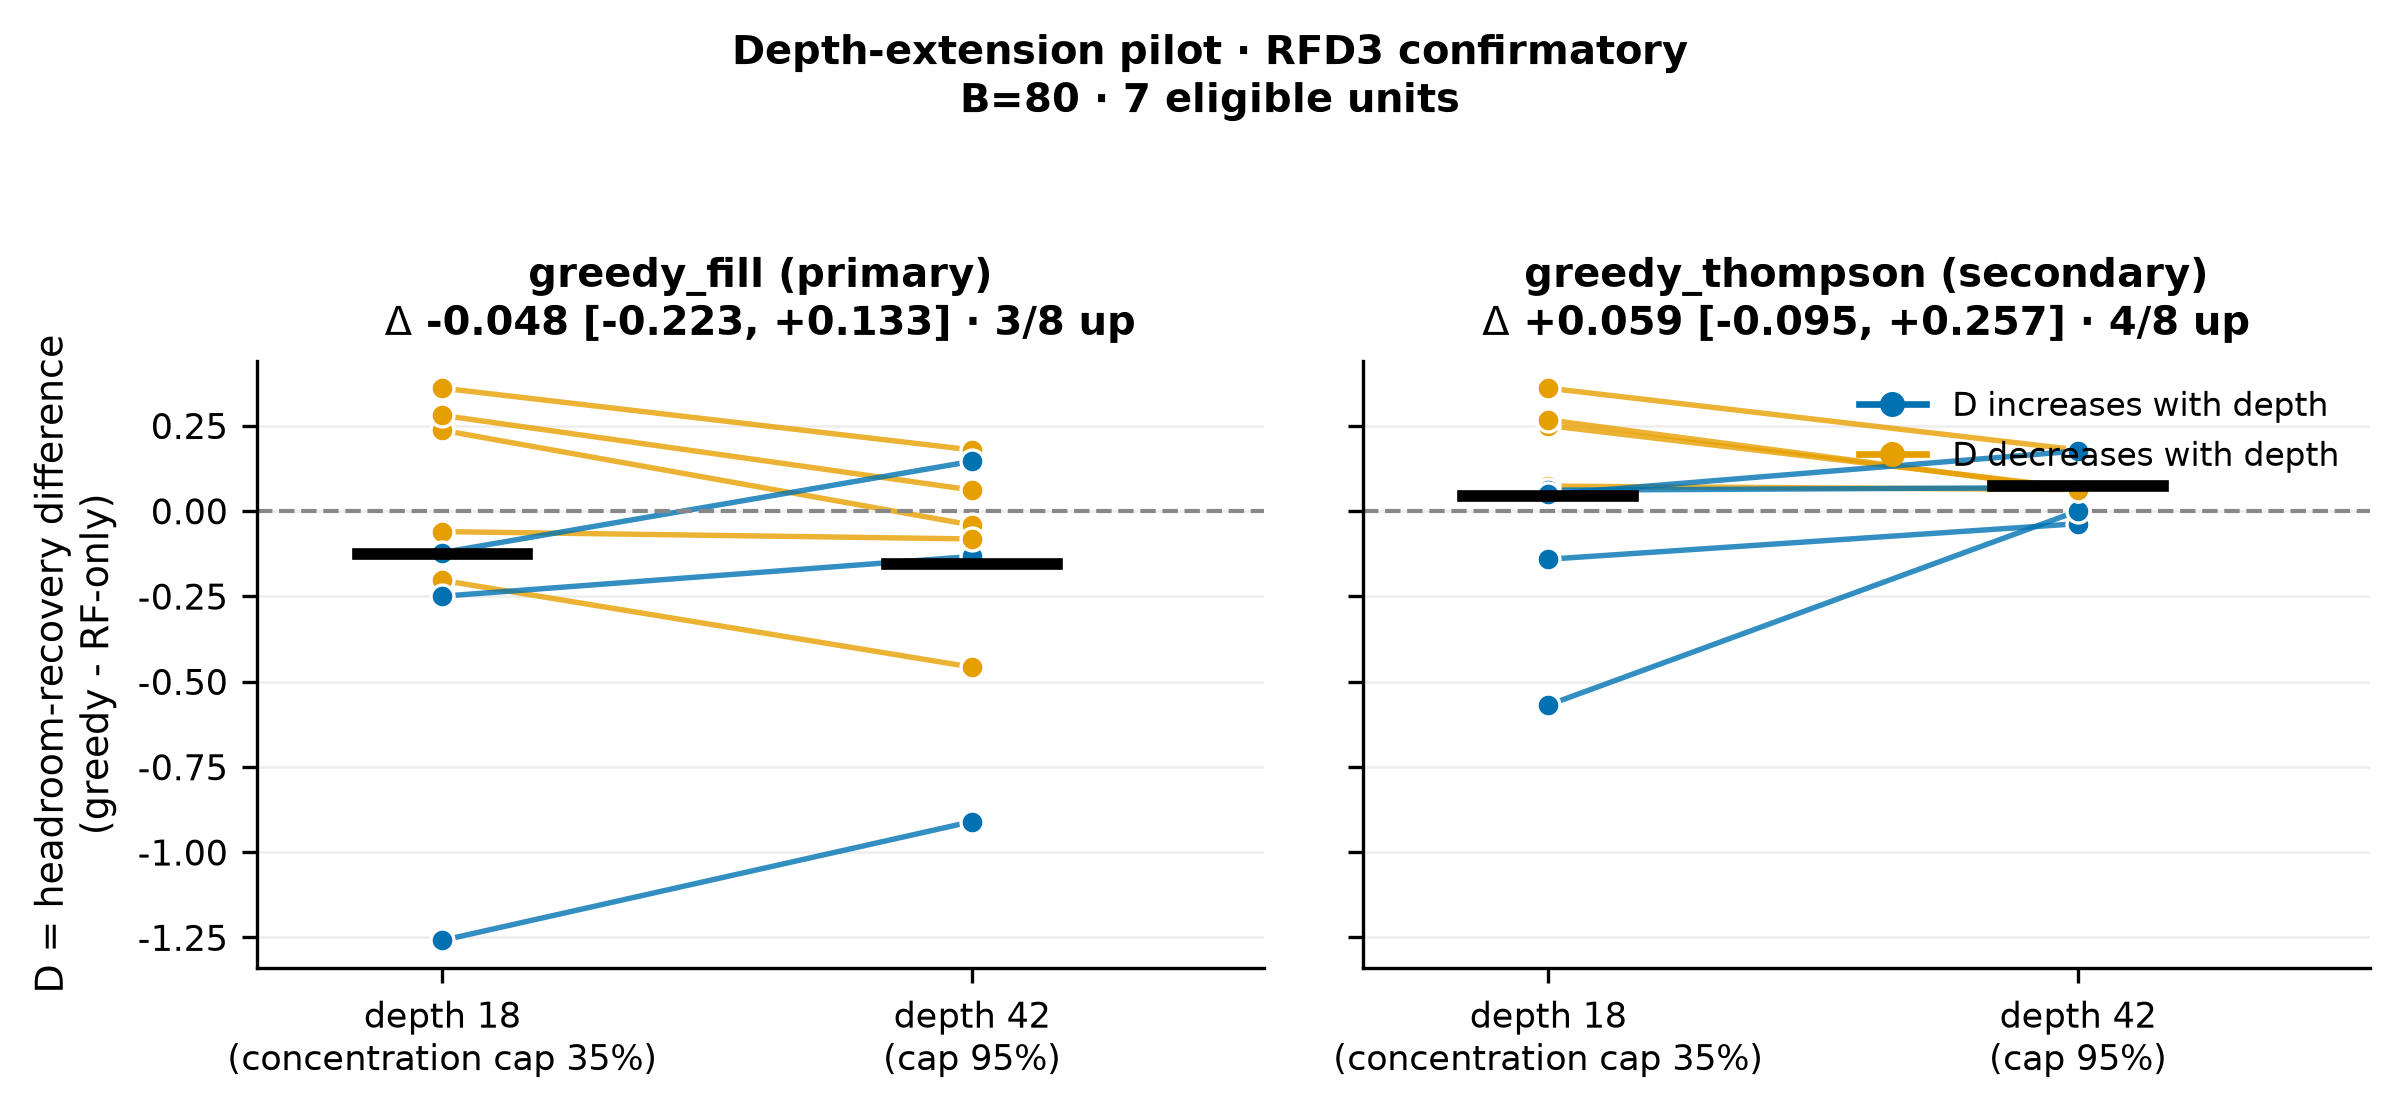
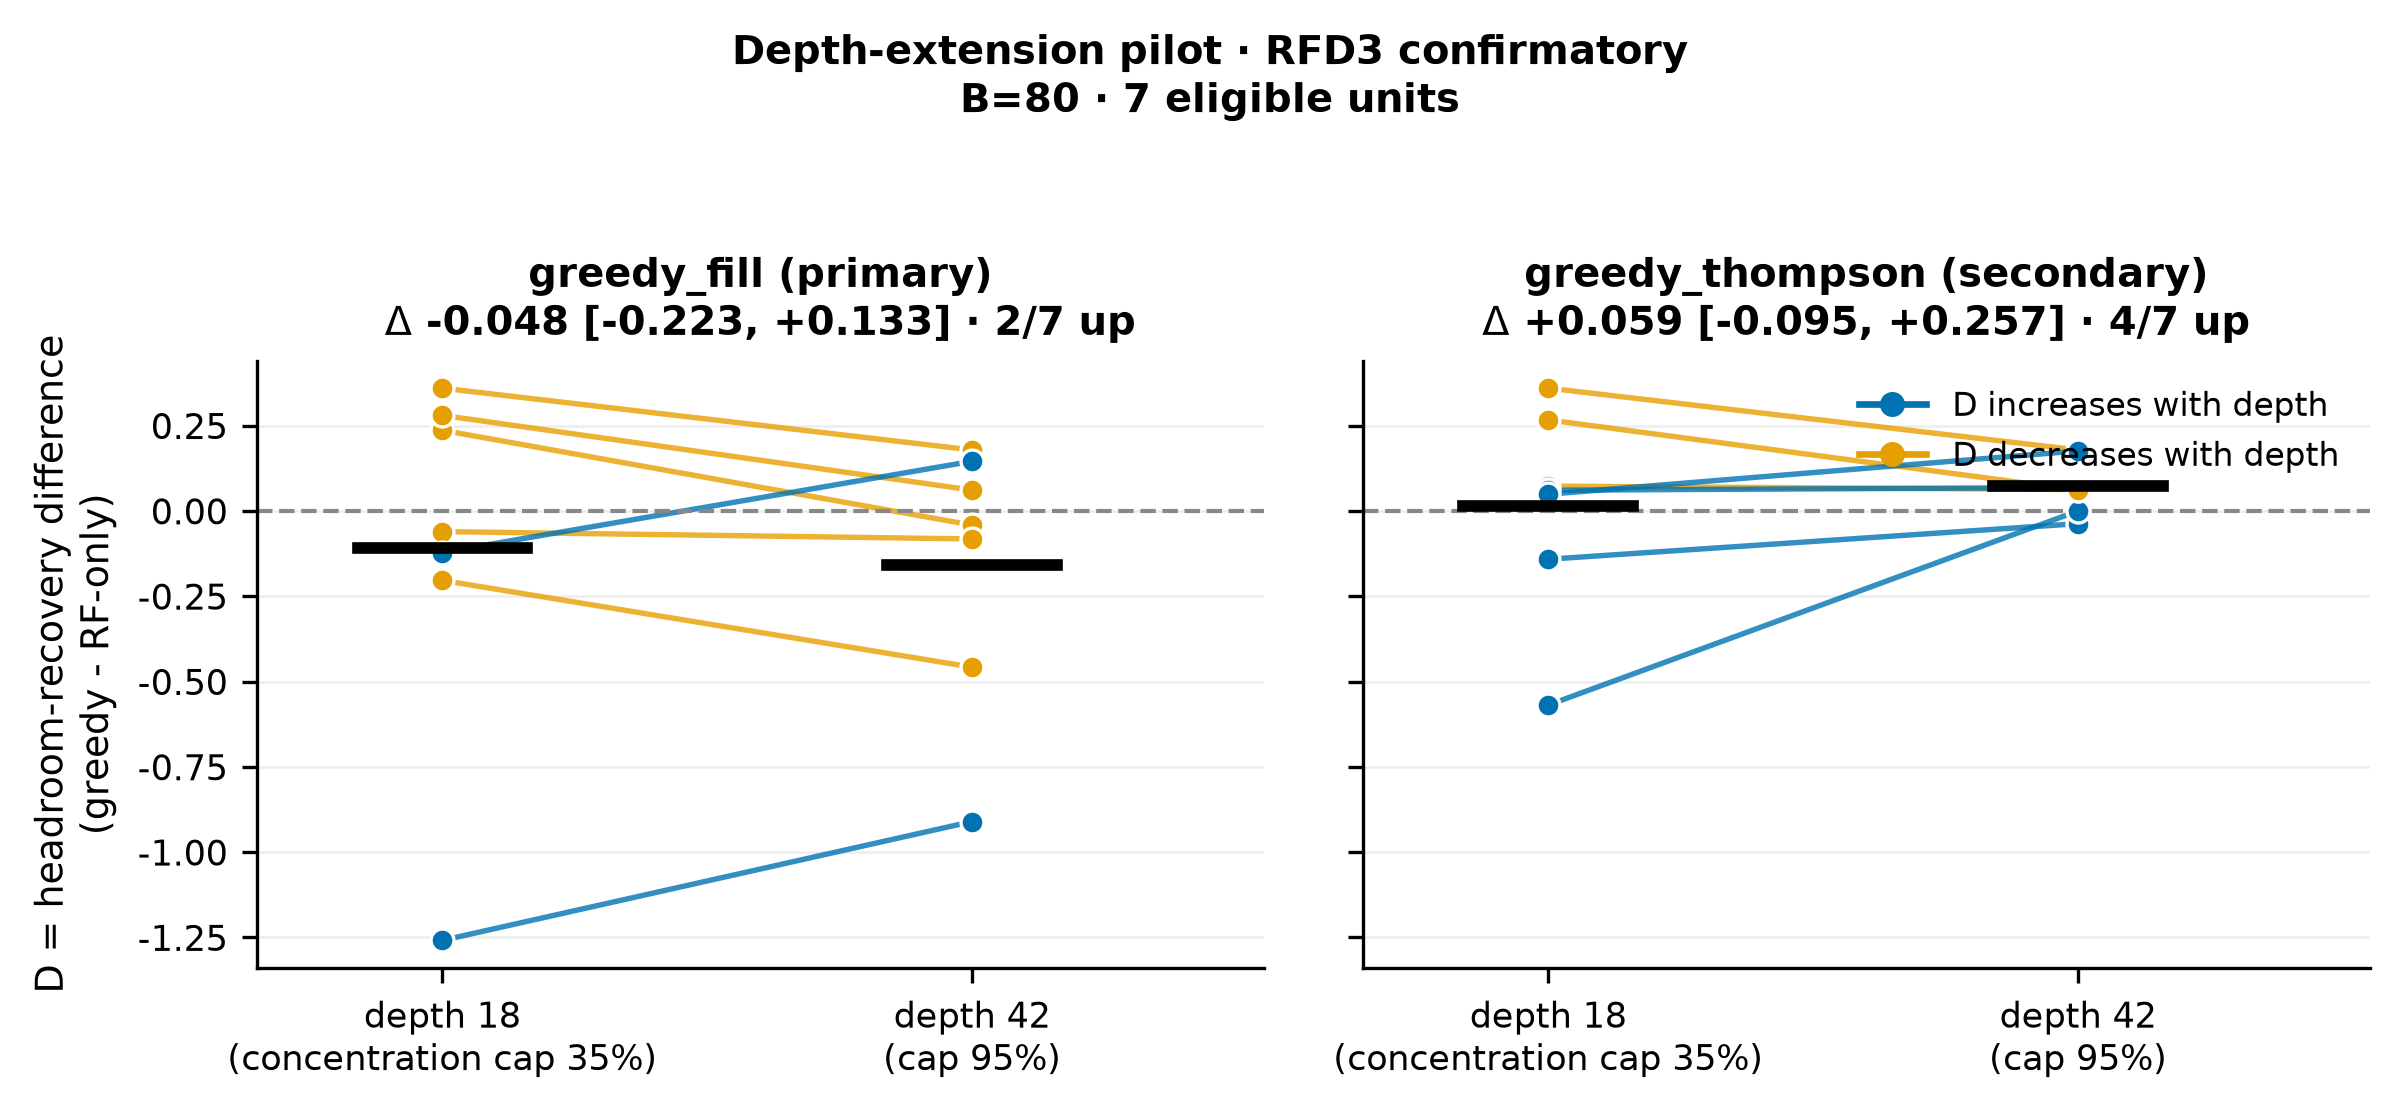
fix(rapid): draw only eligible units in the depth-extension figure
The figure plotted every expanded unit, including ones excluded by the
normalisation denominator rule, so its up-count disagreed with the analysis.

diff --git a/scripts/paper_runs/61_manuscript_figures_en.py b/scripts/paper_runs/61_manuscript_figures_en.py
@@ -326,7 +326,12 @@ def fig5_depth():
         key = f"{arm}|B80"
         c = con[key]
         pts = []
+        #: 통계 분석과 같은 적격 단위만 그린다. 분모가 작은 미적격 단위를 넣으면
+        #: D 가 부풀려지고, 패널의 양수 비율과 본문의 수가 어긋난다.
+        eligible = set(c.get("units", []))
         for t, u in per.items():
+            if t not in eligible:
+                continue
             try:
                 b = {dep: u["by_depth"][dep]["by_budget"]["80"] for dep in ("18", "42")}
             except KeyError:
